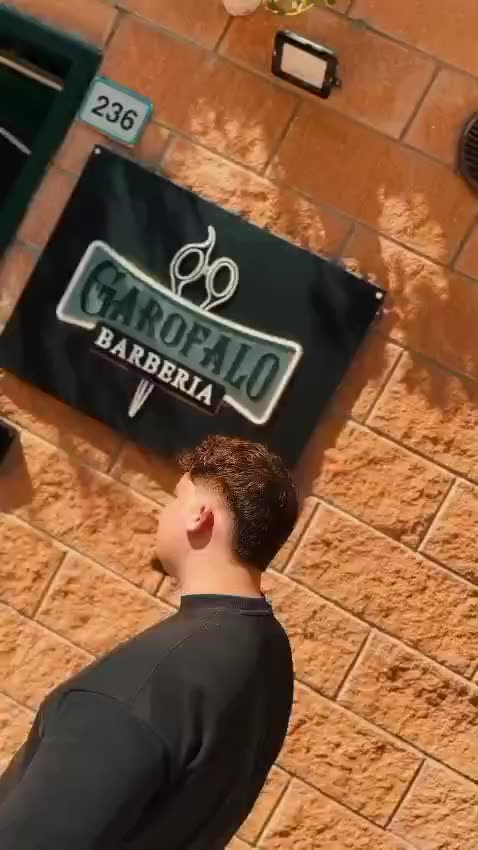
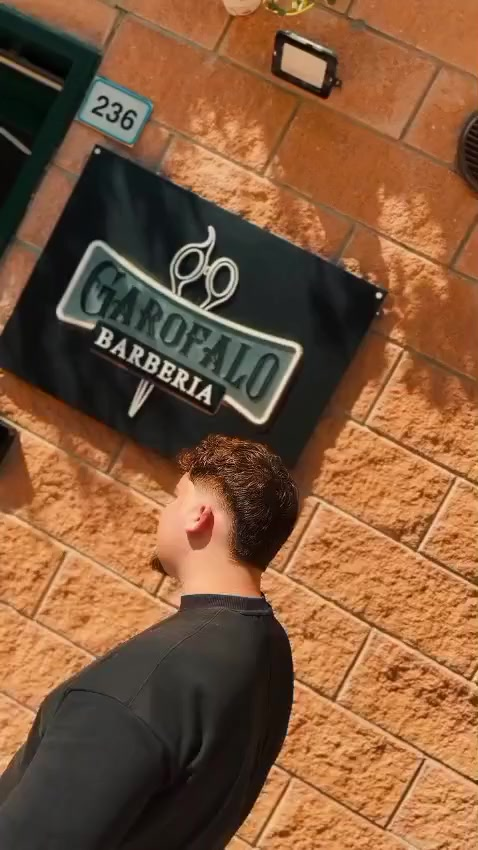
Ingresso app: video nitido e fluido
- Video rifatto in alta qualità dall'originale (25 fotogrammi al secondo, H.264 CRF 18).
- Riserva per i telefoni che bloccano i video automatici: la stessa scena in WebP animato a 25
  fotogrammi e qualità alta (prima 12 fotogrammi e risoluzione ridotta: sgranata e a scatti).
- La schermata non parte più trasparente: Chrome metteva in pausa i video automatici invisibili.

Claude-Session: https://claude.ai/code/session_01FXcjx9Rz3eyiTwc7cWKThj

diff --git a/app/layout.tsx b/app/layout.tsx
@@ -75,7 +75,7 @@ export default function RootLayout({ children }: { children: React.ReactNode }) 
                 // Nell'app installata niente zoom della pagina con due dita (solo foto e mappa si ingrandiscono)
                 "try{if(document.documentElement.classList.contains('is-app')){var vc='width=device-width, initial-scale=1, maximum-scale=1, user-scalable=no';var lv=function(){var ms=document.querySelectorAll('meta[name=viewport]');if(!ms.length){var m=document.createElement('meta');m.name='viewport';document.head.appendChild(m);ms=[m]}for(var i=0;i<ms.length;i++)ms[i].content=vc};lv();document.addEventListener('DOMContentLoaded',lv);window.addEventListener('load',lv);try{new MutationObserver(function(){var ms=document.querySelectorAll('meta[name=viewport]');for(var i=0;i<ms.length;i++)if(ms[i].content!==vc){lv();break}}).observe(document.head,{subtree:true,childList:true,attributes:true,attributeFilter:['content']})}catch(e){}document.addEventListener('gesturestart',function(e){if(!(e.target&&e.target.closest&&e.target.closest('[data-zoom]')))e.preventDefault()},{passive:false})}}catch(e){}" +
                 // App installata: schermata d'ingresso con accesso obbligatorio (03/11/2026). Prova nel browser: ?benvenuto=1
-                "try{if(document.documentElement.classList.contains('is-app')||location.search.indexOf('benvenuto')>-1)window.addEventListener('DOMContentLoaded',function(){import('/js/benvenuto-garofalo.js?v=20261103b').catch(function(){})})}catch(e){}" +
+                "try{if(document.documentElement.classList.contains('is-app')||location.search.indexOf('benvenuto')>-1)window.addEventListener('DOMContentLoaded',function(){import('/js/benvenuto-garofalo.js?v=20261103d').catch(function(){})})}catch(e){}" +
                 "window.addEventListener('beforeinstallprompt',function(e){e.preventDefault();window.__gbBIP=e;window.dispatchEvent(new Event('gb-bip'))});" +
                 // Se un foglio di stile non arriva (rete lenta o pagina aperta durante una pubblicazione: i file cambiano nome),
                 // la pagina si ricarica da sola, al massimo una volta ogni 30 secondi. Così il sito non resta mai senza grafica.

diff --git a/public/js/benvenuto-garofalo.js b/public/js/benvenuto-garofalo.js
@@ -1,6 +1,6 @@
 // Schermata d'ingresso dell'app Barberia Garofalo (03/11/2026): nell'app installata l'accesso è obbligatorio.
 // Dopo 2 mesi senza aprire l'app si rifà l'accesso. Il resto è in benvenuto.js (uguale nei quattro siti).
-import { benvenuto, TESTI_BASE } from './benvenuto.js?v=20261103b';
+import { benvenuto, TESTI_BASE } from './benvenuto.js?v=20261103d';
 
 const EN = /(?:^|;\s*)gb_lang=en/.test(document.cookie) || location.pathname.startsWith('/en');
 // Sessione Supabase nei cookie (non httpOnly): sb-<progetto>-auth-token, a volte in pezzi .0 .1
@@ -12,14 +12,16 @@ const esci = () => {
 benvenuto({
   chiave: 'garofalo',
   classe: 'bv-garofalo',
-  css: '/css/benvenuto.css?v=20261103b',
+  css: '/css/benvenuto.css?v=20261103d',
   nome: 'Barberia Garofalo',
-  logo: null, // col video il logo non serve: si vede già sull'insegna (richiesta di Eliseo, 03/11/2026)
+  logo: null, // con il video il logo non serve: si vede già sull'insegna (richiesta di Eliseo, 03/11/2026)
   sfondo: '/assets/sostituisci-immagini/homepage/legno-oro.jpg',
   // Video del negozio (03/11/2026): liberatorie confermate da Eliseo, anche quella dei genitori per il bambino.
-  video: '/assets/app/ingresso.mp4',
-  poster: '/assets/app/ingresso-poster.jpg',
-  videoRiserva: '/assets/app/ingresso.webp',
+  poster: '/assets/app/ingresso-poster.jpg?v=3',
+  // Video in alta qualità (25 fotogrammi al secondo). Se il telefono blocca l'avvio automatico,
+  // dopo 1,2 secondi parte la stessa scena in WebP animato, sempre a 25 fotogrammi.
+  video: '/assets/app/ingresso.mp4?v=3',
+  videoRiserva: '/assets/app/ingresso.webp?v=3',
   tema: '#000000',
   obbligo: true,
   lingua: () => (EN ? 'en' : 'it'),

diff --git a/public/js/benvenuto.js b/public/js/benvenuto.js
@@ -81,6 +81,14 @@ export async function benvenuto(cfg) {
     video.append(src);
     fondo.append(video);
   }
+  // Animazione (WebP animato): parte sempre da sola, anche dove il telefono blocca i video (03/11/2026)
+  if (cfg.animazione && !video) {
+    fondo.classList.add('bv-fondo--video');
+    if (cfg.poster) fondo.style.backgroundImage = `url("${cfg.poster}")`;
+    const img = document.createElement('img');
+    img.src = cfg.animazione; img.alt = ''; img.className = 'bv-riserva'; img.decoding = 'async'; img.fetchPriority = 'high';
+    fondo.append(img);
+  }
   const avvia = () => { if (video && video.paused) video.play?.().catch(() => {}); };
   const velo = el('div', 'bv-velo');
 
@@ -177,12 +185,12 @@ export async function benvenuto(cfg) {
     // Se dopo 1,5 secondi il video è ancora fermo (telefono che blocca i video), al suo posto va l'animazione WebP
     if (cfg.videoRiserva) {
       setTimeout(() => {
-        if (!video.isConnected || (!video.paused && video.currentTime > 0.2)) return;
+        if (!video.isConnected || (!video.paused && video.currentTime > 0.05)) return;
         const img = document.createElement('img');
         img.src = cfg.videoRiserva; img.alt = ''; img.className = 'bv-riserva'; img.decoding = 'async';
-        img.onload = () => { video.remove(); };
+        img.onload = () => { if (video.paused || video.currentTime < 0.05) video.remove(); else img.remove(); };
         fondo.append(img);
-      }, 1500);
+      }, 1200);
     }
     document.addEventListener('visibilitychange', () => { if (!document.hidden) avvia(); });
   }

diff --git a/public/css/benvenuto.css b/public/css/benvenuto.css
@@ -1,8 +1,7 @@
 /* Schermata di benvenuto dell'app (03/11/2026). I colori arrivano dalle variabili --bv-* di ogni sito. */
 html.bv-aperto, html.bv-aperto body { overflow: hidden; }
 .bv, .bv *, .bv *::before, .bv *::after { box-sizing: border-box; }
-.bv { position: fixed; inset: 0; overflow: clip; z-index: 2147483000; display: grid; grid-template-rows: auto 1fr auto; overflow: hidden; background: var(--bv-fondo); color: var(--bv-testo); font-family: var(--bv-font); opacity: 0; transition: opacity .3s ease; -webkit-tap-highlight-color: transparent; }
-.bv.dentro { opacity: 1; }
+.bv { position: fixed; inset: 0; overflow: clip; z-index: 2147483000; display: grid; grid-template-rows: auto 1fr auto; overflow: hidden; background: var(--bv-fondo); color: var(--bv-testo); font-family: var(--bv-font); transition: opacity .3s ease; -webkit-tap-highlight-color: transparent; }
 .bv.via { opacity: 0; pointer-events: none; }
 .bv button { font: inherit; color: inherit; background: none; border: 0; cursor: pointer; }
 .bv-fondo { position: absolute; inset: -40px; background-size: cover; background-position: center; filter: blur(14px) saturate(1.05); transform: scale(1.08) skewX(-4deg); animation: bv-scorre 22s ease-in-out infinite alternate; }
